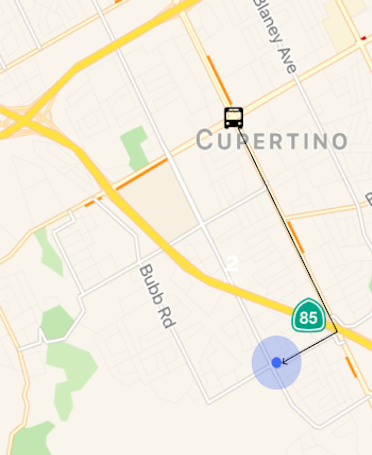
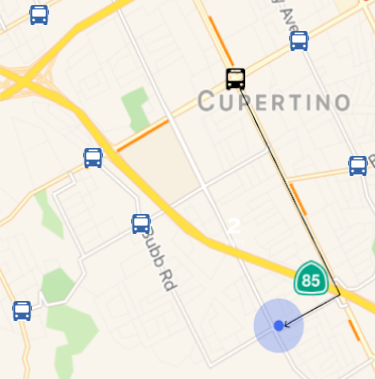
initial commit

diff --git a/Css/style.css b/Css/style.css
@@ -58,7 +58,7 @@ nav {
 .Map img{
   padding-top: 0px;
   width: 375px;
-  height: 450px;
+  height: 430px;
 }
 
 .list {
